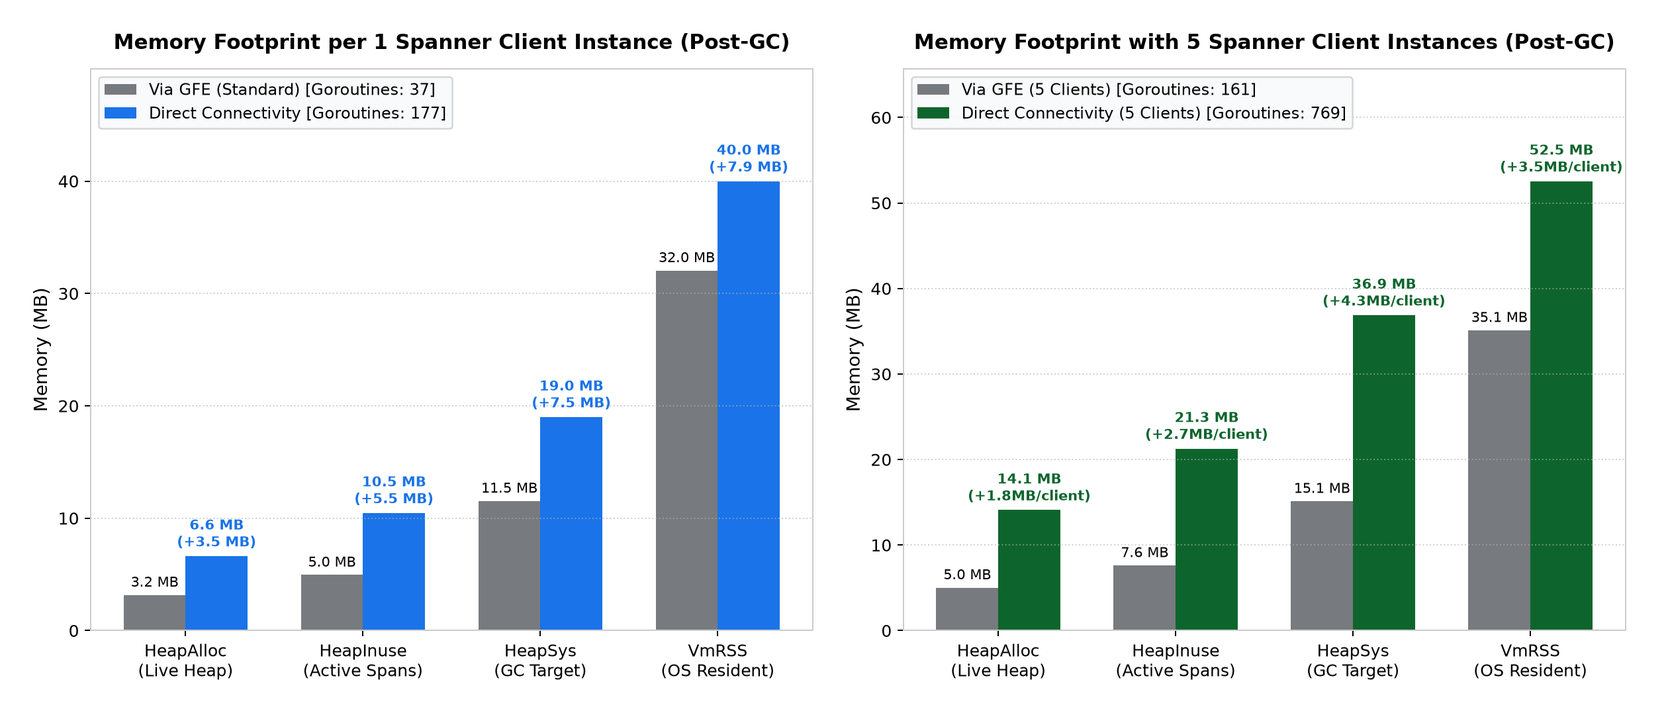
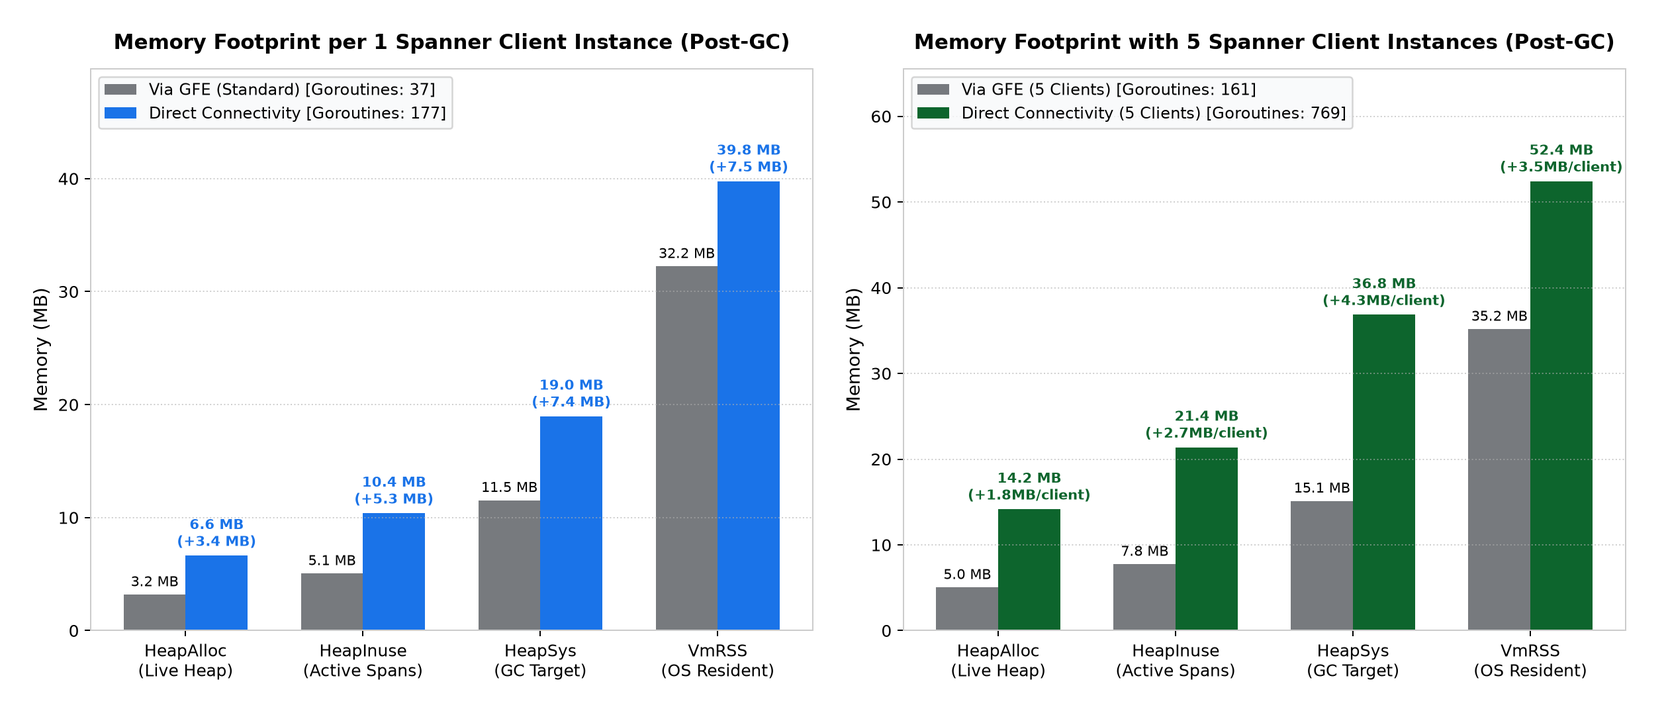
Update benchmark results to 1000 PU (1 Node) and refine memory documentation

diff --git a/articles/80f52aa388bf02.md b/articles/80f52aa388bf02.md
@@ -19,7 +19,7 @@ published: false
 
 これまで Google Cloud 上の Compute Engine（GCE）や Google Kubernetes Engine（GKE）から Cloud Spanner に接続する通信は、すべてのリクエストが Google Cloud 共通のフロントエンドプロキシである **Google Front End（GFE）** を経由していました。これに対し、GFE をバイパスしてクライアント VM から Spanner の API フロントエンドへ直接 gRPC 通信を行う機能が [**Direct Connectivity**](https://docs.cloud.google.com/spanner/docs/latency-points#direct_connectivity) です。
 
-本記事では、Direct Connectivity によって通信経路がどのように変化するかを解説した上で、東京リージョン（`asia-northeast1`）の最小構成である **100 Processing Units（PU）環境** と Go SDK（`cloud.google.com/go/spanner` v1.95.1）を用いて低並列度で実測したレイテンシー分布（CDF およびテールレイテンシー分析）を示します。あわせて、利用する上での留意点として公式ドキュメントで言及されている「クライアントのメモリ消費量の増加」がなぜ発生するのかを、Go ドライバの実装コードとメモリの実測値から確認します。
+本記事では、Direct Connectivity によって通信経路がどのように変化するかを解説した上で、東京リージョン（`asia-northeast1`）の **1,000 Processing Units（1 Node）環境** と Go SDK（`cloud.google.com/go/spanner` v1.95.1）を用いて低並列度で実測したレイテンシー分布（CDF およびテールレイテンシー分析）を示します。あわせて、利用する上での留意点である「クライアントのメモリ消費量の増加」がどの程度発生し、なぜ起きるのかを、Go ドライバの実装コードと実測値から確認します。
 
 ---
 
@@ -79,23 +79,23 @@ Secure connectivity to IPv4 backends from Traffic Director: PASSED
 
 ---
 
-## 実測検証：100 PU・低並列度でのレイテンシー変化
+## 実測検証：1,000 PU（1 Node）・低並列度でのレイテンシー変化
 
-Direct Connectivity の効果を確認するため、東京リージョン（`regional-asia-northeast1`）の **100 Processing Units（PU）** インスタンスに対してベンチマークを実施しました。
+Direct Connectivity の効果を確認するため、東京リージョン（`regional-asia-northeast1`）の **1,000 Processing Units（1 Node）** インスタンスに対してベンチマークを実施しました。
 
-### 測定における 2 つの注意点（低並列度と試行回数）
+### 測定における配慮点（インスタンス規模と並列度）
 
-100 PU 環境でネットワーク経路の差を正確に測るにあたっては、以下の 2 点に配慮して実験を設計しました。
+ネットワーク経路の差を正確に測るにあたっては、以下の 2 点に配慮して実験を設計しました。
 
-1. **サーバー CPU 負荷を避けるための低並列度（Concurrency = 1 / 4）での測定**
-   100 PU（0.1 Node 相当）のインスタンスは、提供されるサーバー CPU リソースが小さく制限されています。もしクライアントから高い並列度で負荷を掛けると、Spanner インスタンス側の CPU 使用率が飽和し、サーバー内部での処理待ちやトランザクションのロック競合が発生します。その結果、リクエストあたりの所要時間が長くなり、Direct Connectivity が短縮する「約 0.7〜1.5 ms のネットワーク＋プロキシ差分」がサーバー側の処理時間に埋もれてしまいます。そこで本検証では、サーバー側の CPU 使用率を 10% 未満の余裕ある状態に保ち、通信経路の差のみを抽出するため、**Concurrency = 1（直列実行）** および **Concurrency = 4（Go SDK のデフォルト gRPC チャネル数に合わせた 4 並列）** の低並列度で計測を行いました。
-2. **内部ハウスキーピング処理による変動を均すための十分な試行回数**
-   公式ドキュメントにも記載がある通り、100 PU のような小さなインスタンス構成では、コンパクションなどの Spanner 内部のハウスキーピング処理（バックグラウンドタスク）によって一時的にレイテンシーが変動することがあります。そのような一時的な変動の影響を均して評価できるよう、事前に 200 回の Warmup を行った上で、Point Read では 3,000〜4,000 回、Read-Write トランザクションでは 1,000 回の試行回数を計測しています。
+1. **ベンチマークに適した 1,000 PU（1 Node）構成の採用**
+   公式ドキュメント（[インスタンス構成](https://docs.cloud.google.com/spanner/docs/instance-configurations#small-instances)）でも言及されている通り、100 PU などの分割された小規模インスタンスは開発・テスト用途向けであり、バックグラウンドのコンパクション処理やリソース制限の影響を受けやすいため性能測定には適していません。そこで本検証では、本番ワークロードの基準となる **1,000 PU（1 Node）** インスタンスを使用して計測を行いました。
+2. **サーバー CPU 負荷を避けるための低並列度（Concurrency = 1 / 4）での測定**
+   クライアントから高い並列度で負荷を掛けると、Spanner インスタンス側での CPU 処理時間やトランザクションのロック競合の割合が大きくなり、Direct Connectivity が短縮する「約 0.7〜1.0 ms のネットワーク＋プロキシ差分」がサーバー側の処理時間に埋もれてしまいます。そこで、サーバー側の CPU 使用率を 5% 未満の余裕ある状態に保ち、通信経路の差のみを抽出するため、**Concurrency = 1（直列実行）** および **Concurrency = 4（Go SDK のデフォルト gRPC チャネル数 `NumChannels=4` に合わせた 4 並列）** の低並列度で計測を行いました。
 
 ### 測定環境とワークロード仕様
 
 * **クライアント環境**：Compute Engine `n4-standard-2`（2 vCPU, 8 GB RAM, 東京 `asia-northeast1-b`）
-* **Spanner 環境**：`regional-asia-northeast1` 構成、**100 Processing Units**
+* **Spanner 環境**：`regional-asia-northeast1` 構成、**1,000 Processing Units（1 Node）**
 * **ソフトウェア**：Go 1.26.0、`cloud.google.com/go/spanner` v1.95.1、`google.golang.org/grpc` v1.82.1
 * **対象テーブル**：主キー `id INT64` と `name STRING(MAX)` のみを持つシンプルな `PoC_Users` テーブル（セカンダリインデックスなし、100行投入済み）
 * **比較条件**：
@@ -103,7 +103,7 @@ Direct Connectivity の効果を確認するため、東京リージョン（`re
   2. **Direct Connectivity**：`GOOGLE_SPANNER_ENABLE_DIRECT_ACCESS=true`
 * **測定ワークロード**：
   * **Point Read (`Concurrency = 1`, 3,000 samples)**：`client.Single().ReadRow` による 1 行読み取り（1 リクエスト＝**1 RPC 往復**）。
-  * **Point Read (`Concurrency = 4`, 4,000 samples)**：4 ゴルーチンから同時に `ReadRow` を実行。
+  * **Point Read (`Concurrency = 4`, 4,000 samples)**：4 ゴルーチンから同時に `ReadRow` を実行（デフォルトの 4 本の gRPC チャネルを並行利用）。
   * **Read-Write Transaction DML (`Concurrency = 1`, 1,000 samples)**：`client.ReadWriteTransaction` 内で `UPDATE PoC_Users SET name = @name WHERE id = @id` を実行。Go SDK の `InlineBegin` 最適化により、トランザクション開始は最初の `ExecuteSql` に含まれるため、1 トランザクション＝**2 RPC 往復（`ExecuteSql` + `Commit`）** となります。
 
 ### 実測結果サマリ
@@ -112,15 +112,15 @@ Direct Connectivity の効果を確認するため、東京リージョン（`re
 
 | ワークロード | 接続経路 | Mean (平均) | StdDev (標準偏差) | Min (最小) | p50 (中央値) | p90 | p95 | p99 | p99.9 |
 | :--- | :--- | :---: | :---: | :---: | :---: | :---: | :---: | :---: | :---: |
-| **Point Read (c=1)**<br>*(1 RPC / Req)* | GFE 経由 (従来) | 3.38 ms | 3.28 ms | 1.64 ms | **2.77 ms** | 3.97 ms | 5.26 ms | **19.21 ms** | **43.30 ms** |
-| | **Direct Connectivity** | **2.20 ms** | **0.71 ms** | **0.93 ms** | **2.03 ms** | **3.11 ms** | **3.33 ms** | **4.14 ms** | **8.33 ms** |
-| | *短縮効果 (差分 / 割合)* | *-1.18 ms (-35%)* | *-2.57 ms (-78%)* | *-0.71 ms* | ***-0.74 ms (-27%)*** | *-0.86 ms (-22%)* | *-1.93 ms (-37%)* | ***-15.07 ms (-78%)*** | ***-34.97 ms (-81%)*** |
-| **Point Read (c=4)**<br>*(1 RPC / Req)* | GFE 経由 (従来) | 3.03 ms | 1.13 ms | 1.48 ms | **2.81 ms** | 3.94 ms | 4.33 ms | 6.35 ms | 16.08 ms |
-| | **Direct Connectivity** | **2.59 ms** | 2.52 ms | **0.85 ms** | **2.13 ms** | **3.71 ms** | 4.85 ms | 15.19 ms | 31.79 ms |
-| | *短縮効果 (差分 / 割合)* | *-0.44 ms (-15%)* | *+1.39 ms* | *-0.63 ms* | ***-0.68 ms (-24%)*** | *-0.23 ms (-6%)* | *+0.52 ms* | *+8.84 ms* | *+15.71 ms* |
-| **Read-Write Txn (c=1)**<br>*(2 RPCs: Update+Commit)* | GFE 経由 (従来) | 23.17 ms | 16.47 ms | 6.74 ms | **16.78 ms** | 49.94 ms | 60.82 ms | **74.44 ms** | **122.48 ms** |
-| | **Direct Connectivity** | **16.81 ms** | **8.73 ms** | **6.16 ms** | **14.84 ms** | **23.57 ms** | **32.10 ms** | **53.64 ms** | **91.72 ms** |
-| | *短縮効果 (差分 / 割合)* | *-6.36 ms (-27%)* | *-7.74 ms (-47%)* | *-0.58 ms* | ***-1.94 ms (-12%)*** | ***-26.37 ms (-53%)*** | ***-28.72 ms (-47%)*** | ***-20.80 ms (-28%)*** | ***-30.76 ms (-25%)*** |
+| **Point Read (c=1)**<br>*(1 RPC / Req)* | GFE 経由 (従来) | 3.03 ms | 0.85 ms | 1.74 ms | **2.80 ms** | 4.12 ms | 4.43 ms | **5.92 ms** | 8.43 ms |
+| | **Direct Connectivity** | **2.30 ms** | **0.78 ms** | **1.17 ms** | **2.03 ms** | **3.34 ms** | **3.56 ms** | **4.08 ms** | **7.36 ms** |
+| | *短縮効果 (差分 / 割合)* | *-0.73 ms (-24%)* | *-0.07 ms (-8%)* | *-0.57 ms (-33%)* | ***-0.77 ms (-28%)*** | *-0.78 ms (-19%)* | *-0.87 ms (-20%)* | ***-1.84 ms (-31%)*** | *-1.07 ms (-13%)* |
+| **Point Read (c=4)**<br>*(1 RPC / Req, 4 Ch)* | GFE 経由 (従来) | 2.74 ms | 0.85 ms | 1.48 ms | **2.50 ms** | 3.88 ms | 4.30 ms | **5.57 ms** | **8.14 ms** |
+| | **Direct Connectivity** | **2.02 ms** | **0.79 ms** | **0.95 ms** | **1.77 ms** | **3.01 ms** | **3.28 ms** | **4.26 ms** | **5.99 ms** |
+| | *短縮効果 (差分 / 割合)* | *-0.72 ms (-26%)* | *-0.06 ms (-7%)* | ***-0.53 ms (-36%)*** | ***-0.73 ms (-29%)*** | *-0.87 ms (-22%)* | *-1.02 ms (-24%)* | ***-1.31 ms (-24%)*** | ***-2.15 ms (-26%)*** |
+| **Read-Write Txn (c=1)**<br>*(2 RPCs: Update+Commit)* | GFE 経由 (従来) | 8.15 ms | 1.29 ms | 6.04 ms | **8.14 ms** | 9.42 ms | 9.80 ms | **13.36 ms** | 17.16 ms |
+| | **Direct Connectivity** | **7.84 ms** | 1.34 ms | **5.86 ms** | **7.52 ms** | **9.33 ms** | 10.19 ms | **11.95 ms** | 17.70 ms |
+| | *短縮効果 (差分 / 割合)* | *-0.31 ms (-4%)* | *+0.05 ms* | *-0.18 ms* | ***-0.62 ms (-8%)*** | *-0.09 ms* | *+0.39 ms* | ***-1.41 ms (-11%)*** | *+0.54 ms* |
 
 ### グラフによる可視化（CDF とテールレイテンシーの比較）
 
@@ -132,21 +132,18 @@ Direct Connectivity の効果を確認するため、東京リージョン（`re
 
 グラフと数値から、以下の 3 つの傾向が読み取れます。
 
-1. **ベースライン RTT の短縮（p50 で約 0.74 ms 短縮、最小値で 1 ms 未満に到達）**
-   左上パネル（Point Read c=1 の CDF）を見ると、Direct Connectivity（青線）は GFE 経由（灰色破線）に対して曲線全体が左へ約 0.7〜0.8 ms 平行移動しています。中央値（p50）は `2.77 ms` から `2.03 ms` へと **26.8% 短縮** され、最小値（Min）は `1.64 ms` から **`0.93 ms`（1 ミリ秒未満）** に達しています。同一リージョン内の通信において、GFE プロキシを経由しない分の RTT 短縮が確認できます。
-2. **GFE 起因のテールレイテンシースパイク（ジッター）の抑制**
-   右上パネル（パーセンタイル棒グラフ）および右下パネル（対数 CCDF）に注目すると、GFE 経由では p95（`5.26 ms`）を超えたあたりからロングテールが発生し、p99 で `19.21 ms`、p99.9 で `43.30 ms` まで上昇しています（標準偏差 `3.28 ms`）。これに対し、Direct Connectivity では p99 が **`4.14 ms`（-15.07 ms / 78.4% 削減）**、p99.9 でも **`8.33 ms`（-34.97 ms / 80.8% 削減）** に収まっており、標準偏差は **`0.71 ms`（約 4.6 分の 1）** に縮小しています。右下 CCDF グラフにおいて青線が急角度で低下しているのは、プロキシ層起因のジッターが抑えられたことを示しています。
-3. **複数回 RPC を往復するトランザクションでの累積短縮効果と、100 PU 環境における並列負荷の境界**
-   左下パネルの Read-Write Transaction（1 トランザクションあたり `ExecuteSql` + `Commit` の 2 RPC 往復）では、p50 の短縮幅が **`-1.94 ms`（16.78 ms → 14.84 ms）** となっており、1 RPC あたりの短縮幅（約 0.7〜1.0 ms）が 2 往復分積み上がっています。さらに p90 では `49.94 ms → 23.57 ms`（**-26.37 ms / 52.8% 削減**）と改善が見られます。
-   一方、Point Read を Concurrency = 4（`PointRead_c4`）に上げたケースを見ると、p50 は `2.81 ms → 2.13 ms`（**-0.68 ms / 24% 短縮**）と速くなっているものの、p99 領域では `15.19 ms` とばらつきが生じています。これは Direct Connectivity によってリクエストの往復間隔（RTT）が短くなった結果、4 並列でも秒間 1,500 QPS 以上の負荷が 100 PU（0.1 Node）の Spanner インスタンスに到達し、サーバー側の処理待ちが発生し始めたためです。100 PU 環境でネットワーク本来の差分を見るには Concurrency = 1 の低並列測定が適していることがここからも確認できます。
+1. **ベースライン RTT の短縮（Point Read の p50 で約 0.73〜0.77 ms 短縮、最小値で 1 ms 未満に到達）**
+   左上パネル（Point Read c=1 の CDF）を見ると、Direct Connectivity（青線）は GFE 経由（灰色破線）に対して曲線全体が左へ約 0.7〜0.8 ms 平行移動しています。中央値（p50）は `2.80 ms` から `2.03 ms` へと **27.5% 短縮** されました。さらに、Go SDK のデフォルトである 4 本の gRPC チャネルを並行稼働させた Concurrency = 4（`PointRead_c4`）では、すべてのチャネルが常時アクティブに保たれることで p50 が `2.50 ms` から **`1.77 ms`（-0.73 ms / 29.2% 短縮）** に達し、最小値（Min）は **`0.95 ms`（1 ミリ秒未満）** を記録しています。同一リージョン内の通信において、GFE プロキシを経由しない分の RTT 短縮が一貫して確認できます。
+2. **テールレイテンシー（p99〜p99.9）の改善**
+   右上パネル（パーセンタイル棒グラフ）および右下パネル（対数 CCDF）に注目すると、Point Read (c=1) の p99 は `5.92 ms` から **`4.08 ms`（-1.84 ms / 31.1% 削減）**、Point Read (c=4) でも p99 が `5.57 ms` から **`4.26 ms`（-1.31 ms / 23.5% 削減）**、p99.9 が `8.14 ms` から **`5.99 ms`（-2.15 ms / 26.4% 削減）** へと改善しています。1,000 PU 環境ではインスタンス自体の処理が安定しているため GFE 経由でも極端なスパイクは少ないものの、Direct Connectivity によってプロキシ通過時のジッターが抑えられ、分布の裾（テール）まで全体的に 1〜2 ms 短縮されていることが分かります。
+3. **Read-Write トランザクション（2 RPC 往復）における短縮効果**
+   左下パネルの Read-Write Transaction（1 トランザクションあたり `ExecuteSql` + `Commit` の 2 RPC 往復）では、p50 が `8.14 ms` から **`7.52 ms`（-0.62 ms / 7.6% 短縮）**、p99 が `13.36 ms` から **`11.95 ms`（-1.41 ms / 10.6% 短縮）** に改善しています。書き込みトランザクションでは Paxos 合意やストレージへの Commit 処理（約 5〜6 ms）が支配的となるため全体の割合としては Point Read より小さくなりますが、RPC 往復のたびに発生するネットワーク通信のオーバーヘッドが着実に削減されていることが確認できます。
 
 ---
 
 ## 利用する上での留意点：クライアントのメモリ消費量について
 
-Google Cloud の公式ドキュメントに記載されている通り、Direct Connectivity を有効にすると、クライアントインスタンスあたり **約 10〜20 MB のメモリ消費量の増加** が発生します。
-
-なぜ接続経路の変更によってメモリ消費量が増えるのか、Go SDK（`cloud.google.com/go/spanner` v1.95.1）の実装コードと実機のメモリ計測結果からその仕組みを確認します。
+Direct Connectivity を有効にすると、クライアント側でエンドポイント情報の管理やフォールバック用の通信経路を保持するため、メモリ消費量がわずかに増加します。公開ドキュメントには具体的な増加量の数値は記載されていませんが、実際に Go SDK（`cloud.google.com/go/spanner` v1.95.1）の実装コードと実測値から、どの程度のメモリ消費増加が発生するのかを確認します。
 
 ### コードレベルで読み取れるメモリ増加の仕組み
 
@@ -187,7 +184,7 @@ Spanner Go クライアントはデフォルトで `NumChannels = 4` 本の gRPC
 
 ここで Go ランタイムのメモリ管理の特性として、ガベージコレクタ（デフォルト `GOGC=100`）は GC 終了時点の生存ヒープ（`HeapAlloc`）やゴルーチンスタックに対して、**約 2 倍のメモリ空間を次回 GC 発動のターゲット（Heap Target）として OS から予約・維持（`HeapSys`）** します。
 
-そのため、xDS キャッシュやフォールバックプールによって生存ヒープ（`HeapAlloc`）が約 3〜4 MB 増加すると、Go ランタイムが OS から確保する物理メモリ（`VmRSS`：Resident Set Size）としてはその約 2 倍にあたる **約 8〜10 MB（負荷状況によっては 10〜20 MB）の増加** となって現れます。
+そのため、xDS キャッシュやフォールバックプールによって生存ヒープ（`HeapAlloc`）が約 3.4 MB 増加すると、Go ランタイムが OS から確保する物理メモリ（`VmRSS`：Resident Set Size）としてはその約 2 倍にあたる **約 7.5〜9.2 MB の増加** となって現れます。
 
 ### 実機でのメモリ消費量計測結果
 
@@ -199,23 +196,23 @@ GCE VM（`bastion`）上で `spanner.Client` インスタンスを **1 個作成
 
 | クライアント数 | 接続経路 | Goroutines<br>(`NumGoroutine`) | HeapAlloc<br>*(生存ヒープ)* | HeapInuse<br>*(使用中スパン)* | HeapSys<br>*(GC Target / 予約済)* | VmRSS (Post-GC)<br>*(OS 実メモリ消費)* | VmRSS (Pre-GC)<br>*(GC 前ピーク RSS)* |
 | :--- | :--- | :---: | :---: | :---: | :---: | :---: | :---: |
-| **0 (Baseline)** | 起動直後・接続前 | 14 | 4.47 MB | 7.69 MB | 19.34 MB | 36.84 MB | — |
-| **1 Client**<br>*(標準構成)* | GFE 経由 (従来) | 37 | 3.17 MB | 4.95 MB | 11.53 MB | 32.04 MB | 33.35 MB |
-| | **Direct Connectivity** | **177** | **6.63 MB** | **10.47 MB** | **19.00 MB** | **39.99 MB** | **42.84 MB** |
-| | *1 Client あたりの増分* | ***+140 goroutines*** | ***+3.46 MB*** | ***+5.52 MB*** | ***+7.47 MB*** | ***+7.95 MB*** | ***+9.49 MB*** |
-| **5 Clients**<br>*(複数 DB 接続)* | GFE 経由 (従来) | 161 | 5.02 MB | 7.62 MB | 15.13 MB | 35.11 MB | 37.55 MB |
-| | **Direct Connectivity** | **769** | **14.09 MB** | **21.28 MB** | **36.88 MB** | **52.55 MB** | **59.97 MB** |
-| | *5 Clients 合計の増分* | *+608 goroutines* | *+9.07 MB* | *+13.66 MB* | *+21.75 MB* | *+17.44 MB* | *+22.42 MB* |
-| | *1 Client あたりの平均増分* | ***+121.6 / client*** | ***+1.81 MB / client*** | ***+2.73 MB / client*** | ***+4.35 MB / client*** | ***+3.49 MB / client*** | ***+4.48 MB / client*** |
+| **0 (Baseline)** | 起動直後・接続前 | 6 | 2.63 MB | 4.49 MB | 11.66 MB | 31.49 MB | — |
+| **1 Client**<br>*(標準構成)* | GFE 経由 (従来) | 37 | 3.19 MB | 5.05 MB | 11.53 MB | 32.23 MB | 33.45 MB |
+| | **Direct Connectivity** | **177** | **6.63 MB** | **10.38 MB** | **18.97 MB** | **39.77 MB** | **42.64 MB** |
+| | *1 Client あたりの増分* | ***+140 goroutines*** | ***+3.44 MB*** | ***+5.33 MB*** | ***+7.44 MB*** | ***+7.54 MB*** | ***+9.19 MB*** |
+| **5 Clients**<br>*(複数 DB 接続)* | GFE 経由 (従来) | 161 | 5.04 MB | 7.75 MB | 15.13 MB | 35.17 MB | 37.67 MB |
+| | **Direct Connectivity** | **769** | **14.15 MB** | **21.38 MB** | **36.84 MB** | **52.43 MB** | **60.06 MB** |
+| | *5 Clients 合計の増分* | *+608 goroutines* | *+9.11 MB* | *+13.63 MB* | *+21.71 MB* | *+17.26 MB* | *+22.39 MB* |
+| | *1 Client あたりの平均増分* | ***+121.6 / client*** | ***+1.82 MB / client*** | ***+2.73 MB / client*** | ***+4.34 MB / client*** | ***+3.45 MB / client*** | ***+4.48 MB / client*** |
 
 ### メモリ分析から得られる運用上の指針
 
-1. **1 クライアントあたりの実メモリ（RSS）増分は約 8.0〜9.5 MB**
-   単一の `spanner.Client` を使用する標準的な構成では、Direct Connectivity を有効にすると生存ヒープ（`HeapAlloc`）が **+3.46 MB** 増加し、Go ランタイムの GC Target（`HeapSys`）の予約とあわせて、OS 上の物理メモリ消費量（`VmRSS`）は Post-GC で **+7.95 MB**（GC 前のピーク時で **+9.49 MB**）増加します。公式ガイドに記載されている「クライアントあたり約 10〜20 MB のメモリ増加」という目安とよく一致しています。
+1. **1 クライアントあたりの実メモリ（RSS）増分は約 7.5〜9.2 MB**
+   単一の `spanner.Client` を使用する標準的な構成では、Direct Connectivity を有効にすると生存ヒープ（`HeapAlloc`）が **+3.44 MB** 増加し、Go ランタイムの GC Target（`HeapSys`）の予約とあわせて、OS 上の物理メモリ消費量（`VmRSS`）は Post-GC で **+7.54 MB**（GC 前のピーク時で **+9.19 MB**）増加することが確認できました。
 2. **複数クライアント生成時の xDS クライアント共有効果**
-   5 個の `spanner.Client` を生成したケースでは、1 クライアントあたりの平均増分は `HeapAlloc` で **+1.81 MB**、Post-GC の `VmRSS` で **+3.49 MB** へと減少しています。これは `grpc-go` の xDS クライアント実装がプロセス内で共有される部分があり、Traffic Director との通信キャッシュの一部が複数クライアント間で再利用されるためです。
+   5 個の `spanner.Client` を生成したケースでは、1 クライアントあたりの平均増分は `HeapAlloc` で **+1.82 MB**、Post-GC の `VmRSS` で **+3.45 MB** へと減少しています。これは `grpc-go` の xDS クライアント実装がプロセス内で共有される部分があり、Traffic Director との通信キャッシュの一部が複数クライアント間で再利用されるためです。
 3. **`spanner.Client` のシングルトン再利用の確認**
-   通常の GCE VM や GKE Pod（数 GB 以上のメモリを搭載）において、プロセスあたり 10 MB 前後のメモリ増加が問題になることはほとんどありません。ただし、リクエストごとに `spanner.NewClient` を生成・破棄するような実装を行っている場合や、コンテナのメモリ上限（Memory Limit）を 128 MB〜256 MB といった小さなサイズに切り詰めている環境では注意が必要です。基本原則通り **`spanner.Client` をアプリケーション起動時に 1 度だけ初期化して使い回す（シングルトンパターン）** こと、およびコンテナのメモリ制限に 20 MB 程度の余裕を持たせておくことを推奨します。
+   通常の GCE VM や GKE Pod（数 GB 以上のメモリを搭載）において、プロセスあたり 10 MB 前後のメモリ増加が問題になることはほとんどありません。ただし、リクエストごとに `spanner.NewClient` を生成・破棄するような実装を行っている場合や、コンテナのメモリ上限（Memory Limit）を 128 MB〜256 MB といった小さなサイズに切り詰めている環境では注意が必要です。基本原則通り **`spanner.Client` をアプリケーション起動時に 1 度だけ初期化して使い回す（シングルトンパターン）** こと、およびコンテナのメモリ制限に 15〜20 MB 程度の余裕を持たせておくことを推奨します。
 
 ---
 
@@ -223,13 +220,13 @@ GCE VM（`bastion`）上で `spanner.Client` インスタンスを **1 個作成
 
 Direct Connectivity を導入する際の要件と設定手順を整理します。
 
-### 1. 導入の前提条件（Prerequisites）
+### 1. 導入の前提条件
 
 * **実行環境**：クライアントが Google Compute Engine（GCE）または Google Kubernetes Engine（GKE）上で稼働していること（Cloud Run などの環境からは Direct Connectivity の直接経路は利用できず、自動的に GFE 経由の通信へフォールバックします）。
 * **同一リージョン配置（推奨）**：クライアント VM / Pod と Spanner インスタンスが同一リージョン（例：ともに `asia-northeast1`）に配置されていること。
-* **SDK バージョン**：
-  * Go：`cloud.google.com/go/spanner` **v1.63.0 以降**（クライアントサイドメトリクスがデフォルト有効化された **v1.71.0 以降** を推奨）
-  * Java：`google-cloud-spanner` **v6.62.0 以降**（メトリクス対応の **v6.81.0 以降** を推奨。なお、既知の互換性問題がある `grpc-java` 1.75.0〜1.77.0 / `java-spanner` 6.103.0〜6.104.0 は避けて最新安定版を使用してください）
+* **SDK バージョン**（[公式ドキュメント記載の要件](https://docs.cloud.google.com/spanner/docs/latency-points#direct_connectivity)）：
+  * Go：`cloud.google.com/go/spanner` **v1.88.0 以降**
+  * Java：`google-cloud-spanner` **v6.111.0 以降**
 * **ネットワーク・ファイアウォール要件**：VPC のルートおよび下り（Egress）ファイアウォールルールにて、Direct Connectivity 用のエンドポイント IP 範囲である **`34.126.0.0/18`（IPv4）** および **`2001:4860:8040::/42`（IPv6）** への TCP 通信が許可されていること。
 * **IAM 権限**：クライアントのサービスアカウントに `spanner.databases.get` 権限が付与されていること（データベース単位のルーティングメタデータ取得に必要です）。
 
@@ -254,15 +251,15 @@ client, err := spanner.NewClientWithConfig(ctx, databaseName, cfg)
 
 ### 3. Cloud Monitoring でのメトリクス確認
 
-Go SDK v1.71.0 以降では、Cloud Monitoring へクライアントサイドメトリクス（`spanner.googleapis.com/client/operation_latencies` など）が自動送信されます。メトリクスのラベルとして付与される **`directpath_enabled`**（設定が有効か）および **`directpath_used`**（実際にリクエストが Direct Connectivity 経路で処理されたか）をフィルタリングすることで、直接通信が利用されているかどうかやレイテンシーの改善幅を Cloud Monitoring 上で確認できます。
+Cloud Monitoring へ送信されるクライアントサイドメトリクス（`spanner.googleapis.com/client/operation_latencies` など）において、ラベルとして付与される **`directpath_enabled`**（設定が有効か）および **`directpath_used`**（実際にリクエストが Direct Connectivity 経路で処理されたか）をフィルタリングすることで、直接通信が利用されているかどうかやレイテンシーの改善幅を Cloud Monitoring 上で確認できます。
 
 ---
 
 ## まとめ
 
-Cloud Spanner の Direct Connectivity について、その仕組みと 100 PU 環境での実測結果、および利用する上での留意点を確認しました。
+Cloud Spanner の Direct Connectivity について、その仕組みと 1,000 PU（1 Node）環境での実測結果、および利用する上での留意点を確認しました。
 
 * **仕組み**：Google Front End（GFE）プロキシをバイパスし、Traffic Director（xDS）から取得したエンドポイント情報を用いてクライアントから Spanner API フロントエンドへ直接 gRPC 通信を行います。実行環境で利用可能かどうかは公開ツール `dp_check` で事前に確認できます。
-* **レイテンシー改善効果**：東京リージョン 100 PU 環境・Go クライアントの低並列実測において、Point Read の中央値（p50）が **`2.77 ms → 2.03 ms`（-26.8%）**、最小値が **`0.93 ms`（1 ミリ秒未満）** に短縮されました。さらに GFE 通過時に発生していた p99（`19.21 ms → 4.14 ms`、**-78.4% 削減**）や p99.9（`43.30 ms → 8.33 ms`、**-80.8% 削減**）のテールレイテンシーのばらつきが抑えられ、標準偏差が **約 4.6 分の 1**（`3.28 ms → 0.71 ms`）に縮小しました。
-* **複数 RPC トランザクションへの効果**：`ExecuteSql` + `Commit` の 2 往復を伴う Read-Write トランザクションでは、1 トランザクションあたり p50 で **`-1.94 ms`**、p90 で **`-26.37 ms`（-52.8%）** と、RPC の往復回数に応じて短縮効果が積み上がります。
-* **メモリ消費量の留意点**：障害時に即座に GFE 経由へ退避するためのフォールバック用コネクションプールを保持すること、およびエンドポイント管理データ構造をクライアント側で保持することにより、生存ヒープが約 +3.5 MB 増加します。これが Go ランタイムの GC Target（`HeapSys`）の予約によって約 2 倍の領域として確保され、**1 クライアントあたり約 8〜10 MB（公式ガイドの記載では約 10〜20 MB）のメモリ増加** として観測されます。`spanner.Client` のシングルトン再利用を行っていれば実用上の支障になることは少なく、環境変数 1 つ（`GOOGLE_SPANNER_ENABLE_DIRECT_ACCESS=true`）で導入できる有用な機能です。
+* **レイテンシー改善効果**：東京リージョン 1,000 PU（1 Node）環境・Go クライアントの実測において、Point Read の中央値（p50）が **`2.80 ms → 2.03 ms`（c=1 で -27.5%）**、4 並列（c=4）では **`2.50 ms → 1.77 ms`（-29.2%）** に短縮され、最小値は **`0.95 ms`（1 ミリ秒未満）** に達しました。テールレイテンシーについても p99 で **`5.92 ms → 4.08 ms`（-31.1% 削減）** とプロキシ通過時のジッターが抑えられています。
+* **複数 RPC トランザクションへの効果**：`ExecuteSql` + `Commit` の 2 往復を伴う Read-Write トランザクションでも、p50 で **`8.14 ms → 7.52 ms`（-0.62 ms）**、p99 で **`13.36 ms → 11.95 ms`（-1.41 ms）** と、RPC の往復ごとにネットワーク通信のオーバーヘッドが削減されます。
+* **メモリ消費量の留意点**：障害時に即座に GFE 経由へ退避するためのフォールバック用コネクションプールを保持すること、およびエンドポイント管理データ構造をクライアント側で保持することにより、生存ヒープが約 +3.44 MB 増加します。これが Go ランタイムの GC Target（`HeapSys`）の予約によって約 2 倍の領域として確保され、実測では **1 クライアントあたり約 7.5〜9.2 MB のメモリ増加** として観測されました。`spanner.Client` のシングルトン再利用を行っていれば実用上の支障になることは少なく、環境変数 1 つ（`GOOGLE_SPANNER_ENABLE_DIRECT_ACCESS=true`）で導入できる有用な機能です。
